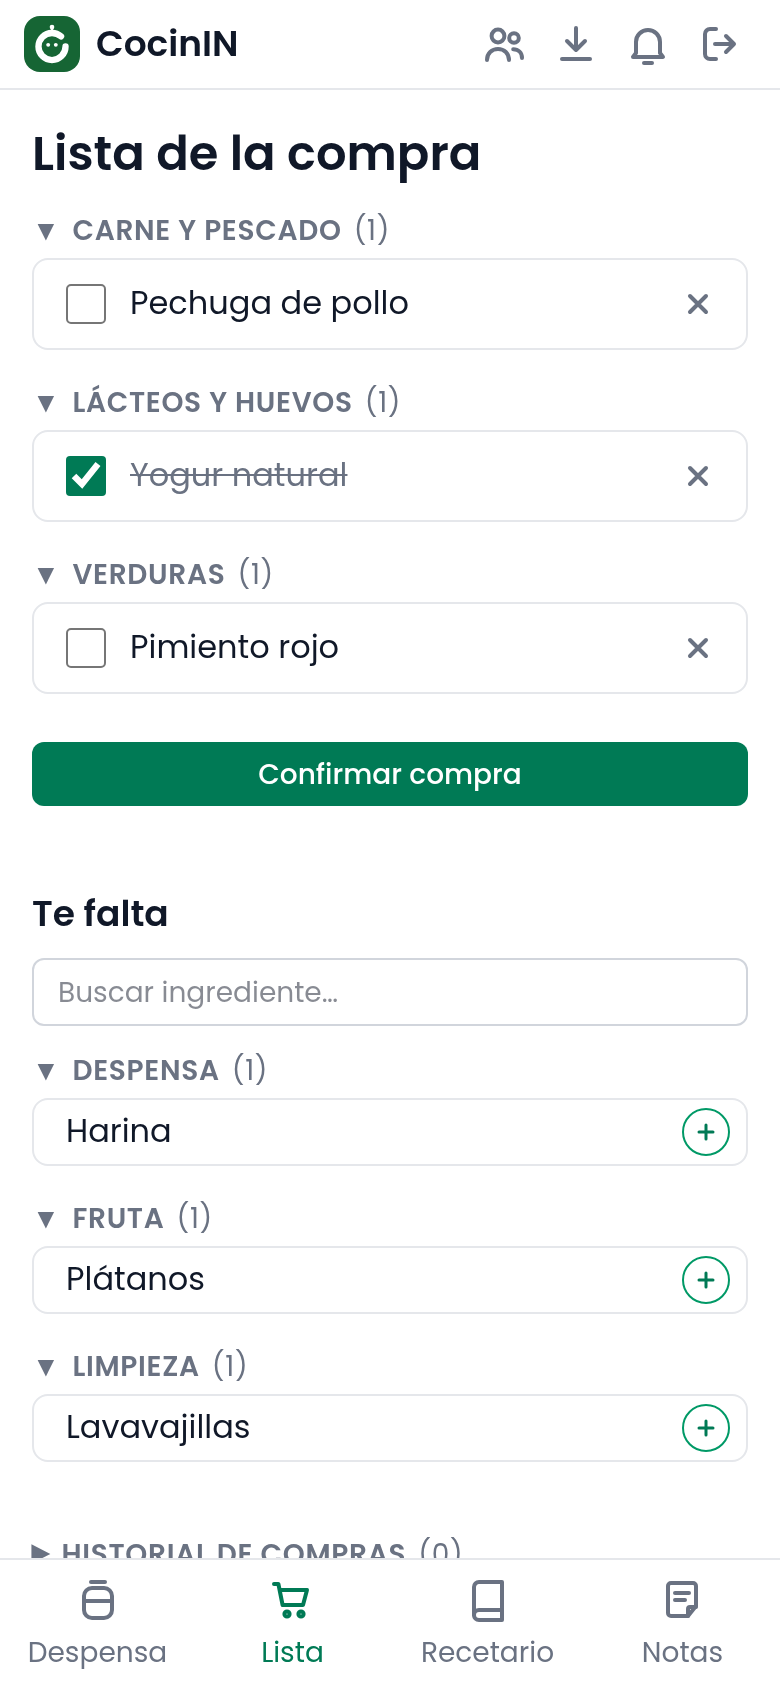
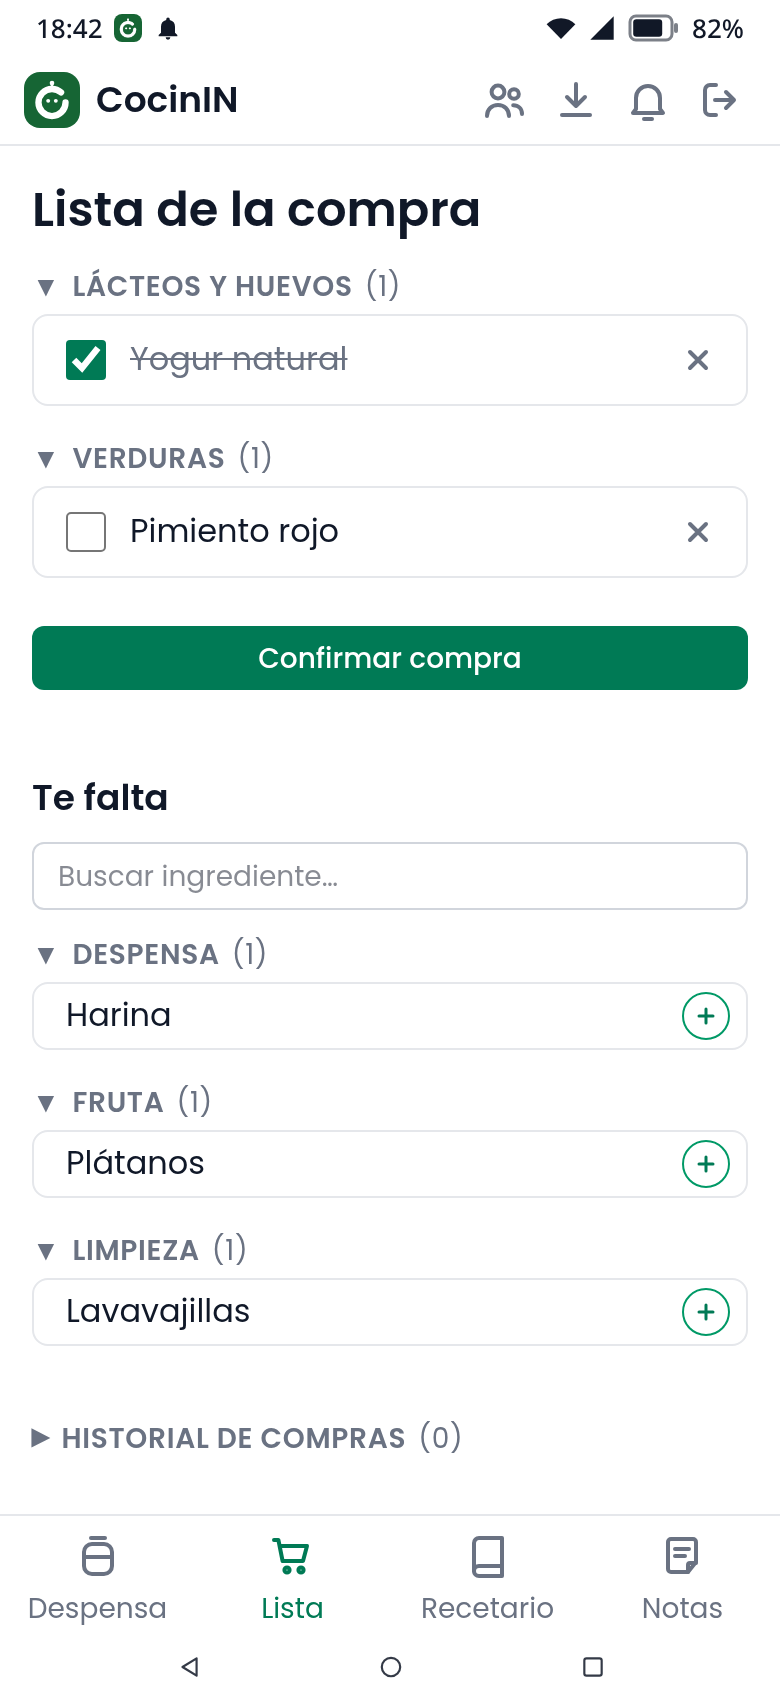
README y capturas con la apariencia nueva
Capturas regeneradas con datos de ejemplo (emuladores) y enmarcadas como
móvil con barra de estado y de navegación: toggle ámbar, descongelado,
insignias de grupo, panel del ingrediente y etiquetas del recetario. Añade
la captura del panel y actualiza el texto de Despensa, Recetario, Avisos y
Uso diario.

diff --git a/README.md b/README.md
@@ -17,13 +17,13 @@
 
 CocinIN responde a tres preguntas del día a día: **¿qué tenemos en casa?**, **¿qué hay que comprar?** y **¿qué podemos cocinar?** Todo se sincroniza al instante entre las personas de la casa: si alguien tacha algo en el súper, los demás lo ven en su móvil.
 
-- 🥫 **Despensa**: ingredientes por grupos con un interruptor *disponible / agotado*, un copo de nieve para marcarlos como *congelados*, y fecha de compra o de caducidad (con avisos de «caduca en 2 días»).
+- 🥫 **Despensa**: ingredientes por grupos con un interruptor de color que resume el estado (verde disponible, rojo agotado, azul congelado, ámbar con aviso). Con fecha de compra o de caducidad, o sin fecha. Puedes marcar lo que quieras **congelado** y, al sacarlo, empieza la **cuenta de descongelado** en la nevera (azul las primeras 24 h, ámbar a partir de ahí y rojo a las 48 h, con «Descongelado hace 1 día y 6 h»), y un botón de alerta para marcar lo que quieres **gastar pronto** («Marcado hace 2 días»). Las cabeceras de grupo muestran cuántos ingredientes tienen aviso, aunque estén plegadas. «Comprado hace X días» solo lo anota la lista de la compra.
 - 🛒 **Lista de la compra**: lo que te falta, con buscador y un «+» para añadirlo (con «Deshacer»). Al confirmar la compra, lo comprado vuelve a la despensa y se anota en el historial.
-- 📖 **Recetario**: recetas con ingredientes (obligatorios u opcionales) y preparación, con buscador y filtro «Puedo hacerla». Lo que te falta sale en rojo (y en ámbar si es opcional).
+- 📖 **Recetario**: recetas con ingredientes (obligatorios u opcionales) y preparación, con buscador, filtro «Puedo hacerla» y **etiquetas** propias (con emoji, ordenables arrastrando) para filtrar. Lo que te falta sale en rojo (y en ámbar si es opcional).
 - 📝 **Notas**: recordatorios con hora y fecha («Sacar pollo del congelador, mañana a las 17:30») que avisan por el móvil a las personas que elijas.
 - 👥 **Usuarios**: un administrador da de alta a los demás y puede ponerles un alias. Cada casa tiene su propia instalación y sus datos son privados.
 - 📥 **Importar recetas**: pega el JSON que te prepare cualquier IA con la receta y se añaden al recetario, con vista previa.
-- 🔔 **Avisos en el móvil** (opcional): algo se ha agotado, compra hecha, algo va a caducar, una nota con hora…
+- 🔔 **Avisos en el móvil** (opcional): algo se ha agotado, compra hecha, algo va a caducar, algo lleva 24 h o 48 h descongelado, una nota con hora…
 - 🌗 Modo claro y oscuro automático, copia de seguridad en un clic (icono de descarga de la barra superior) y aviso cuando hay una versión nueva de la app.
 
 Es una **PWA**: puedes usarla desde el navegador del ordenador o del móvil, o **instalarla como una app** con su icono en la pantalla de inicio, a pantalla completa y sin barra del navegador.
@@ -39,11 +39,12 @@ Es una **PWA**: puedes usarla desde el navegador del ordenador o del móvil, o *
 ## Capturas
 
 <p>
-  <img src="docs/screenshots/movil-login.png" alt="Inicio de sesión" width="19%">
-  <img src="docs/screenshots/movil-despensa.png" alt="Despensa" width="19%">
-  <img src="docs/screenshots/movil-lista.png" alt="Lista de la compra" width="19%">
-  <img src="docs/screenshots/movil-receta.png" alt="Receta" width="19%">
-  <img src="docs/screenshots/movil-notas.png" alt="Notas con aviso" width="19%">
+  <img src="docs/screenshots/movil-login.png" alt="Inicio de sesión" width="16%">
+  <img src="docs/screenshots/movil-despensa.png" alt="Despensa con ingredientes congelados, descongelando y con aviso" width="16%">
+  <img src="docs/screenshots/movil-ingrediente.png" alt="Panel de un ingrediente: fecha, cantidad, alerta y congelar" width="16%">
+  <img src="docs/screenshots/movil-lista.png" alt="Lista de la compra" width="16%">
+  <img src="docs/screenshots/movil-receta.png" alt="Receta con etiquetas" width="16%">
+  <img src="docs/screenshots/movil-notas.png" alt="Notas con aviso" width="16%">
 </p>
 
 *Los datos de las capturas son de ejemplo.*
@@ -123,8 +124,10 @@ Tanto con la opción A como con la B, la instalación ha terminado cuando tu URL
 | Acción | Cómo |
 | --- | --- |
 | Añadir ingrediente | Despensa → «+ Ingrediente». Nace disponible (ON). |
-| Agotado / disponible / congelado | Interruptor a la izquierda del ingrediente (verde disponible, rojo agotado, azul congelado); el copo de nieve, a su lado, lo marca como congelado (cuenta como disponible). Al agotarlo, la app te ofrece «Añadir a la lista». |
-| Caducidad, cantidad, editar o eliminar | Toca el ingrediente: fechas, cantidad (texto libre, p. ej. «500 g») y botones **Editar** y **Eliminar**. |
+| Agotado / disponible | Interruptor a la izquierda del ingrediente (verde disponible, rojo agotado, ámbar si tiene un aviso, azul si está congelado). Al agotarlo, la app te ofrece «Añadir a la lista». Al volver a ponerlo disponible a mano nace **sin fecha**. |
+| Congelar y descongelar | Toca el ingrediente y usa el copo de nieve, abajo a la derecha de la cantidad. Al pulsarlo de nuevo se **descongela** (en la nevera) y empieza la cuenta en horas: aviso a las 24 h y a las 48 h («mejor no lo uses»). |
+| Gastar pronto | En el mismo panel, el triángulo de alerta marca el ingrediente (toggle ámbar y «⚠ Marcado hace X días»). Se quita al agotarlo. |
+| Fecha, cantidad, editar o eliminar | Toca el ingrediente: tipo de fecha (**Sin fecha**, de compra o de caducidad) y la fecha, cantidad (texto libre, p. ej. «500 g») y botones **Editar** y **Eliminar**. Mientras algo se descongela, la fecha de descongelado manda sobre las demás. |
 | Buscar | El buscador de la Despensa filtra por ingrediente **o por grupo**. |
 | Comprar | Lista → «+» en lo que falta → marca lo comprado → «Confirmar compra». |
 | Receta nueva | Recetario → «+ Receta», o **Importar** para pegar un JSON con una o varias recetas (vista previa y «Deshacer importación»). |
@@ -147,7 +150,7 @@ Tanto con la opción A como con la B, la instalación ha terminado cuando tu URL
 
 La app funciona completa sin esto. Si quieres notificaciones (algo se ha gastado, compra hecha, algo va a caducar…), hace falta un servicio pequeño en una máquina tuya siempre encendida con Docker, por ejemplo una Raspberry Pi. Firebase gratis no puede enviarlas por sí solo.
 
-Avisa de: ingrediente agotado, varios añadidos a la lista, compra hecha, receta nueva, usuario nuevo, caducidad próxima y notas con hora. Cada persona elige cuáles quiere en la campana de la barra superior, y nunca se avisa a quien provoca el cambio.
+Avisa de: ingrediente agotado, varios añadidos a la lista, compra hecha, receta nueva, usuario nuevo, caducidad próxima, descongelado (a las 24 h y a las 48 h, a cualquier hora) y notas con hora (cada nota llega como una notificación propia, sin pisarse). Cada persona elige cuáles quiere en la campana de la barra superior, y nunca se avisa a quien provoca el cambio.
 
 **Instalación**
 1. Descarga la clave de tu proyecto: consola de Firebase → Configuración del proyecto → Cuentas de servicio → *Generar nueva clave privada*, y guárdala como `notifier/secrets/service-account.json` (no la subas ni la compartas).
